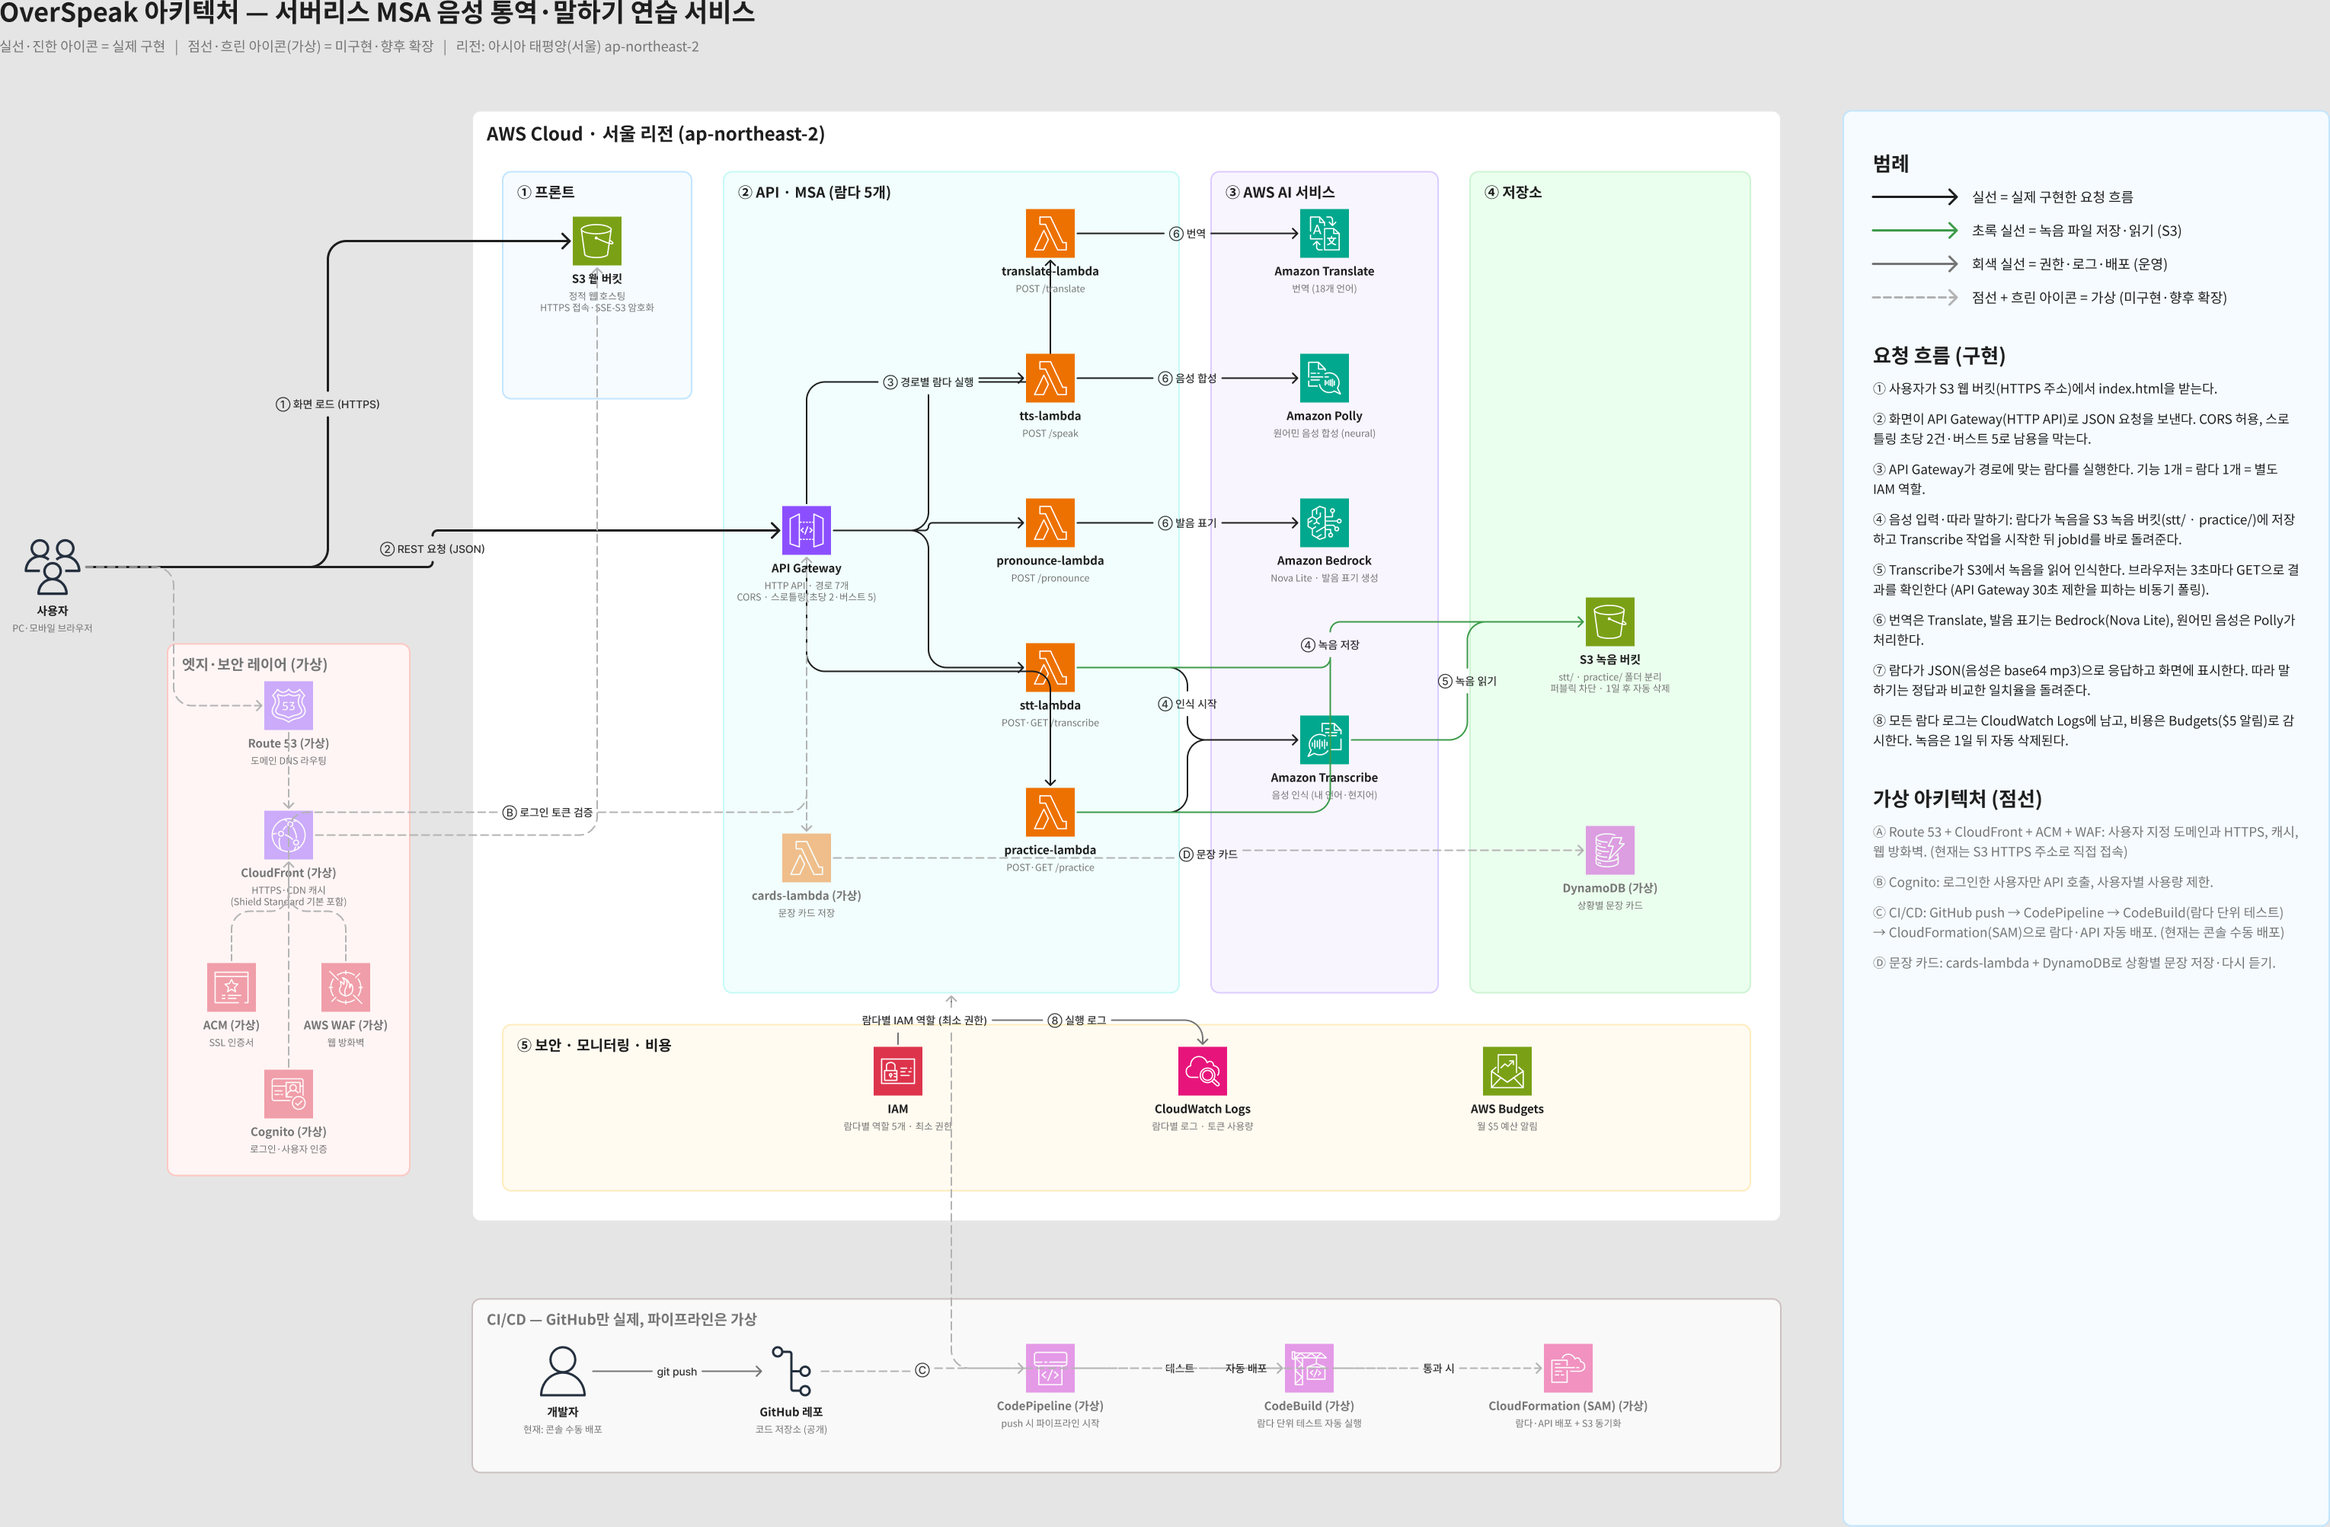
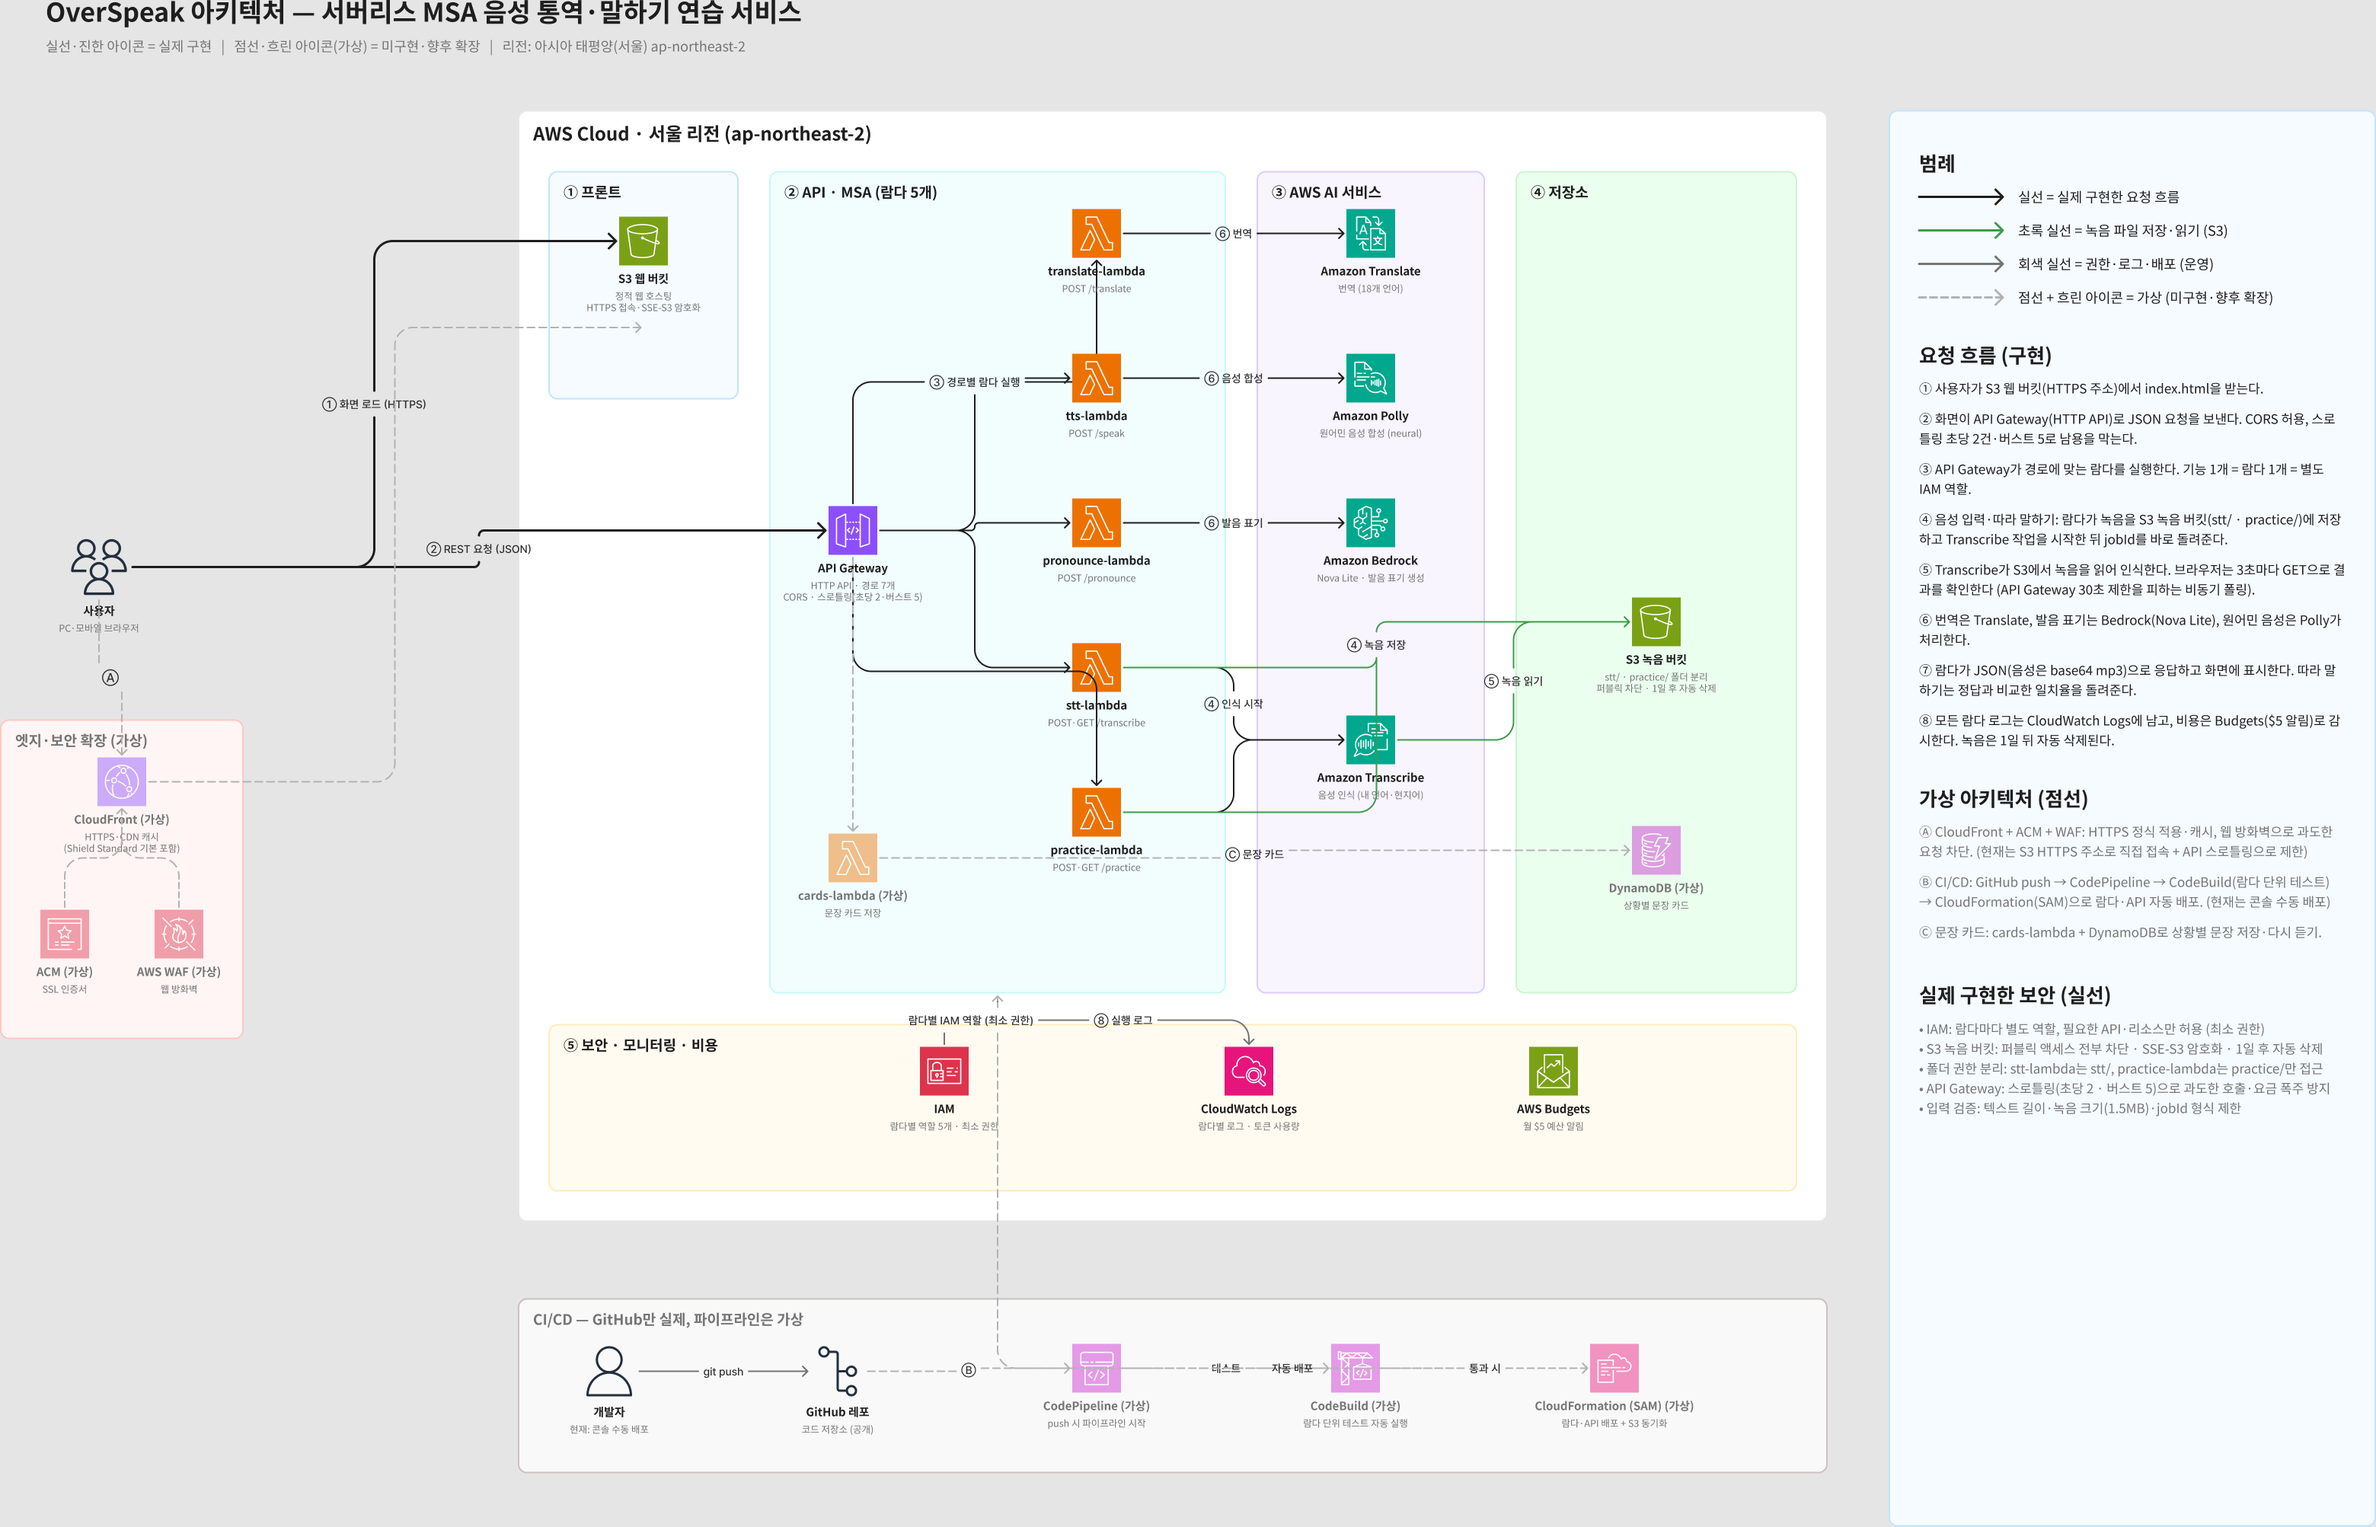
docs: 아키텍처 엣지 보안 영역 간소화

diff --git a/PRD.md b/PRD.md
@@ -218,7 +218,7 @@
 
 ### 구성도 스타일 (제출용, FigJam으로 작성 — 2026-11-16 draw.io에서 변경)
 - AWS 공식 아키텍처 아이콘 (AWS Architecture Icons 패키지의 SVG)
-- 가상 요소(점선)는 실제로 겪은 한계와 연결된 것만: 엣지·보안(Route 53, CloudFront, ACM, WAF), 인증(Cognito), CI/CD(CodePipeline, CodeBuild, CloudFormation), 기능 확장(DynamoDB 문장 카드). GitHub 레포는 실제로 있으므로 실선
+- 가상 요소(점선)는 실제로 겪은 한계와 연결된 것만: 엣지·보안 확장(CloudFront, ACM, WAF — 2026-11-17 Route 53·Cognito는 겪은 문제와 연결이 약해 제외), CI/CD(CodePipeline, CodeBuild, CloudFormation), 기능 확장(DynamoDB 문장 카드). GitHub 레포는 실제로 있으므로 실선. 실제 구현한 보안(IAM 최소 권한, S3 퍼블릭 차단·SSE-S3·1일 삭제, 폴더 권한 분리, 스로틀링, 입력 검증)은 범례 옆에 실선 항목으로 따로 정리
 - 역할별 색상 그룹 박스: ① 사용자·프론트(S3 웹) ② API·MSA(API Gateway + 람다들) ③ AWS AI 서비스(Translate·Polly·Transcribe·Bedrock) ④ 저장소(S3 녹음 버킷, 가상: DynamoDB) ⑤ 모니터링·비용(CloudWatch, Budgets)
 - 아이콘 아래 서비스명 + 한국어 한 줄 역할
 - **구현 = 실선 / 가상 = 점선 + 회색**, 범례 필수 (가상 후보: CloudFront+HTTPS, Cognito 로그인, 실시간 스트리밍 STT, 문장 카드 DynamoDB, WAF)

diff --git a/architecture.md b/architecture.md
@@ -55,10 +55,10 @@ flowchart LR
   L1 & L2 & L3 & L4 & L5 --> CW
 
   CF["CloudFront + HTTPS"]:::virtual
-  COG["Cognito 로그인"]:::virtual
+  WAF["WAF 웹 방화벽"]:::virtual
   STR["Transcribe 실시간 스트리밍"]:::virtual
   U -.-> CF -.-> S3W
-  U -.-> COG
+  U -.-> WAF
   L4 -.-> STR
 
   class L6,DDB virtual
